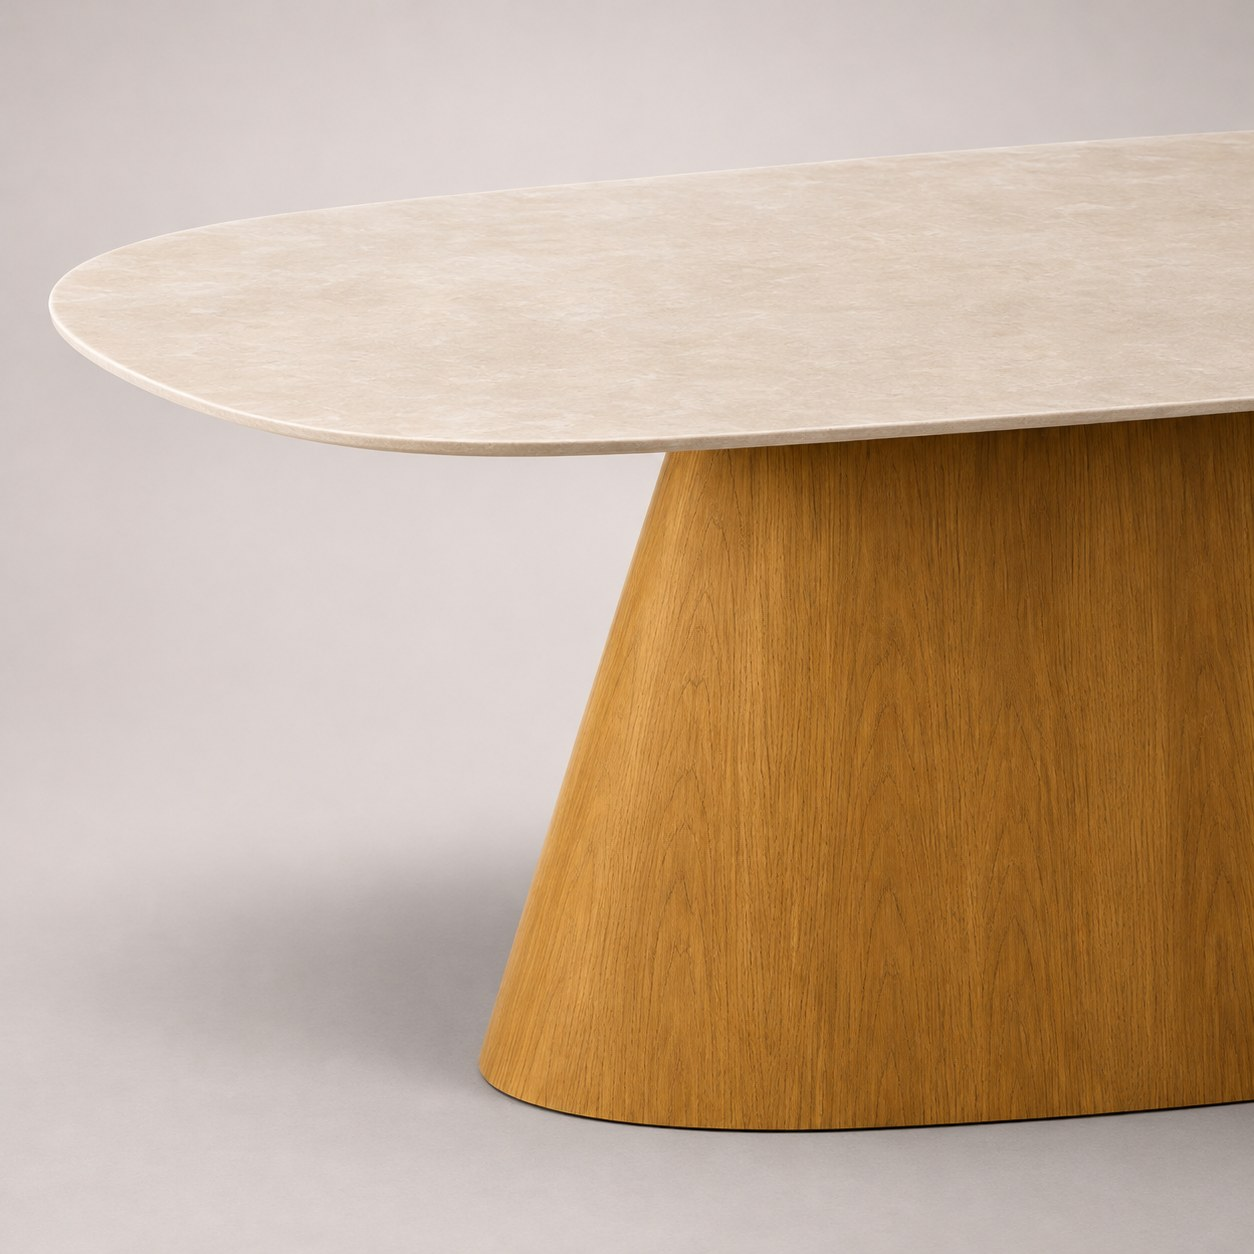
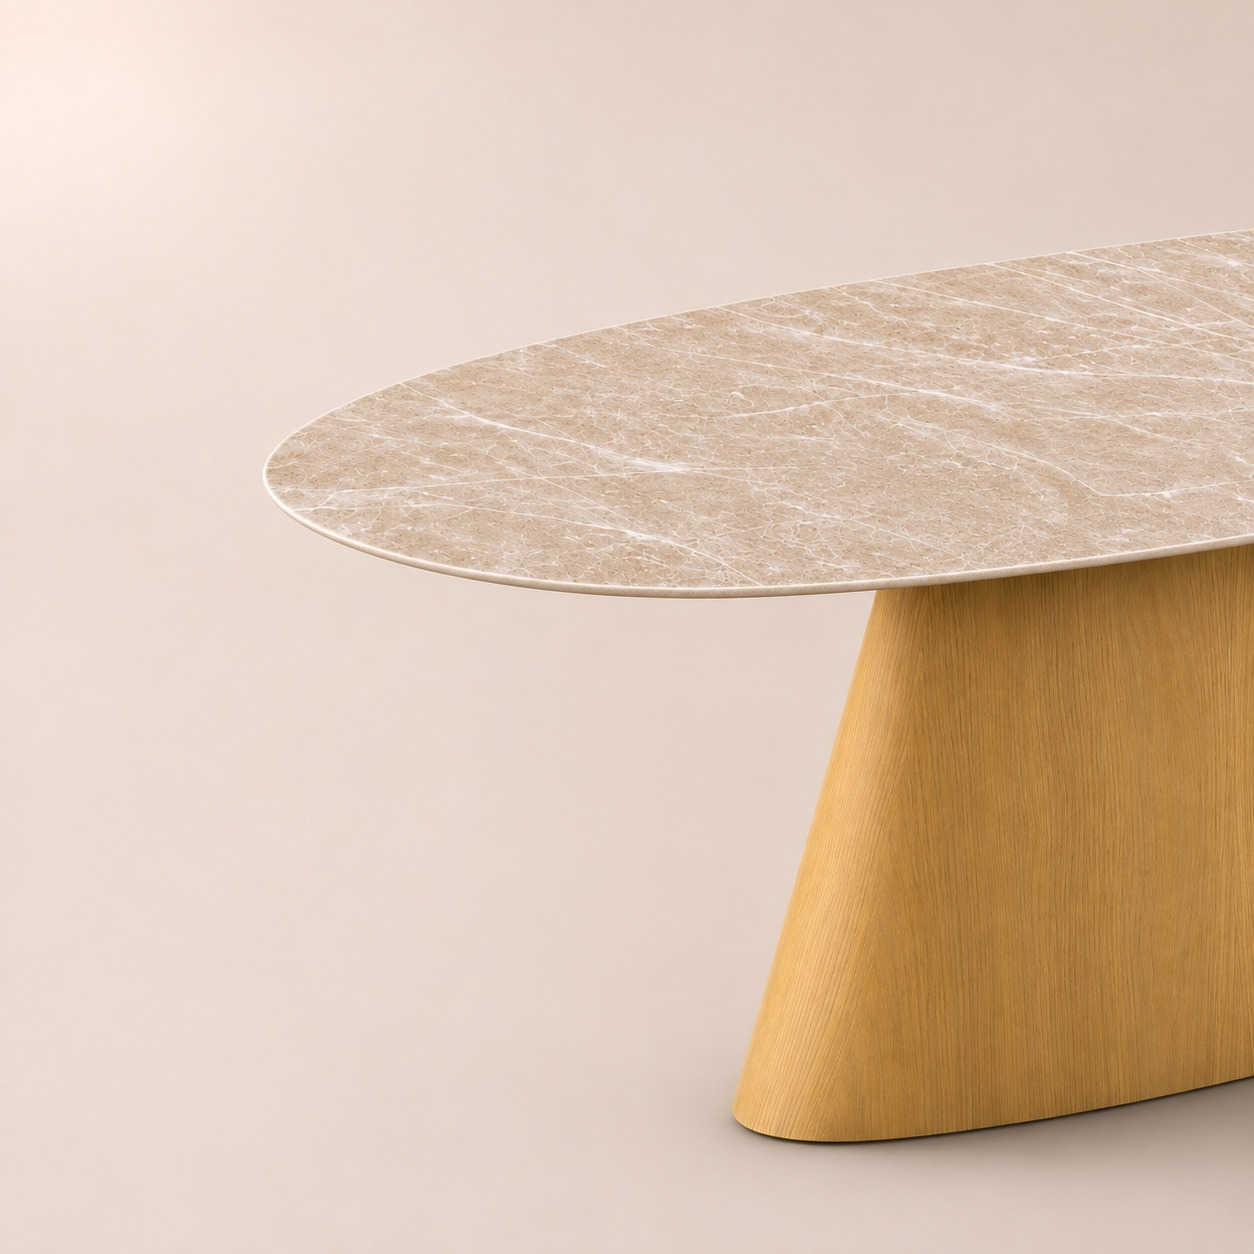
Ornella Rochedo: fotos general y detalle nuevas; características PP y poro abierto
Claude-Session: https://claude.ai/code/session_01CGCz11iLih3TFmj8JTgkSP

diff --git a/js/productos.js b/js/productos.js
@@ -124,11 +124,11 @@ const productos = [
         "specs": [
             [
                 "Terminación de la mesa",
-                "Imitación mármol Rochedo - Placa de PP"
+                "Imitación mármol Rochedo - Revestimiento PP (placa de polímero de alta resistencia)"
             ],
             [
                 "Características de la placa",
-                "Soporta 180 grados - Alta resistencia al impacto - Superficie texturada"
+                "Soporta 200 grados - Alto impacto - No se mancha"
             ],
             [
                 "Medidas (m)",
@@ -136,7 +136,7 @@ const productos = [
             ],
             [
                 "Terminación de las patas",
-                "Laca tono almendra"
+                "Laca poro abierto tono almendra"
             ],
             [
                 "Estructura de la mesa",
@@ -163,7 +163,7 @@ const productos = [
             ],
             [
                 "Terminación de las patas",
-                "Laca tono almendra"
+                "Laca poro abierto tono almendra"
             ],
             [
                 "Estructura de la mesa",
